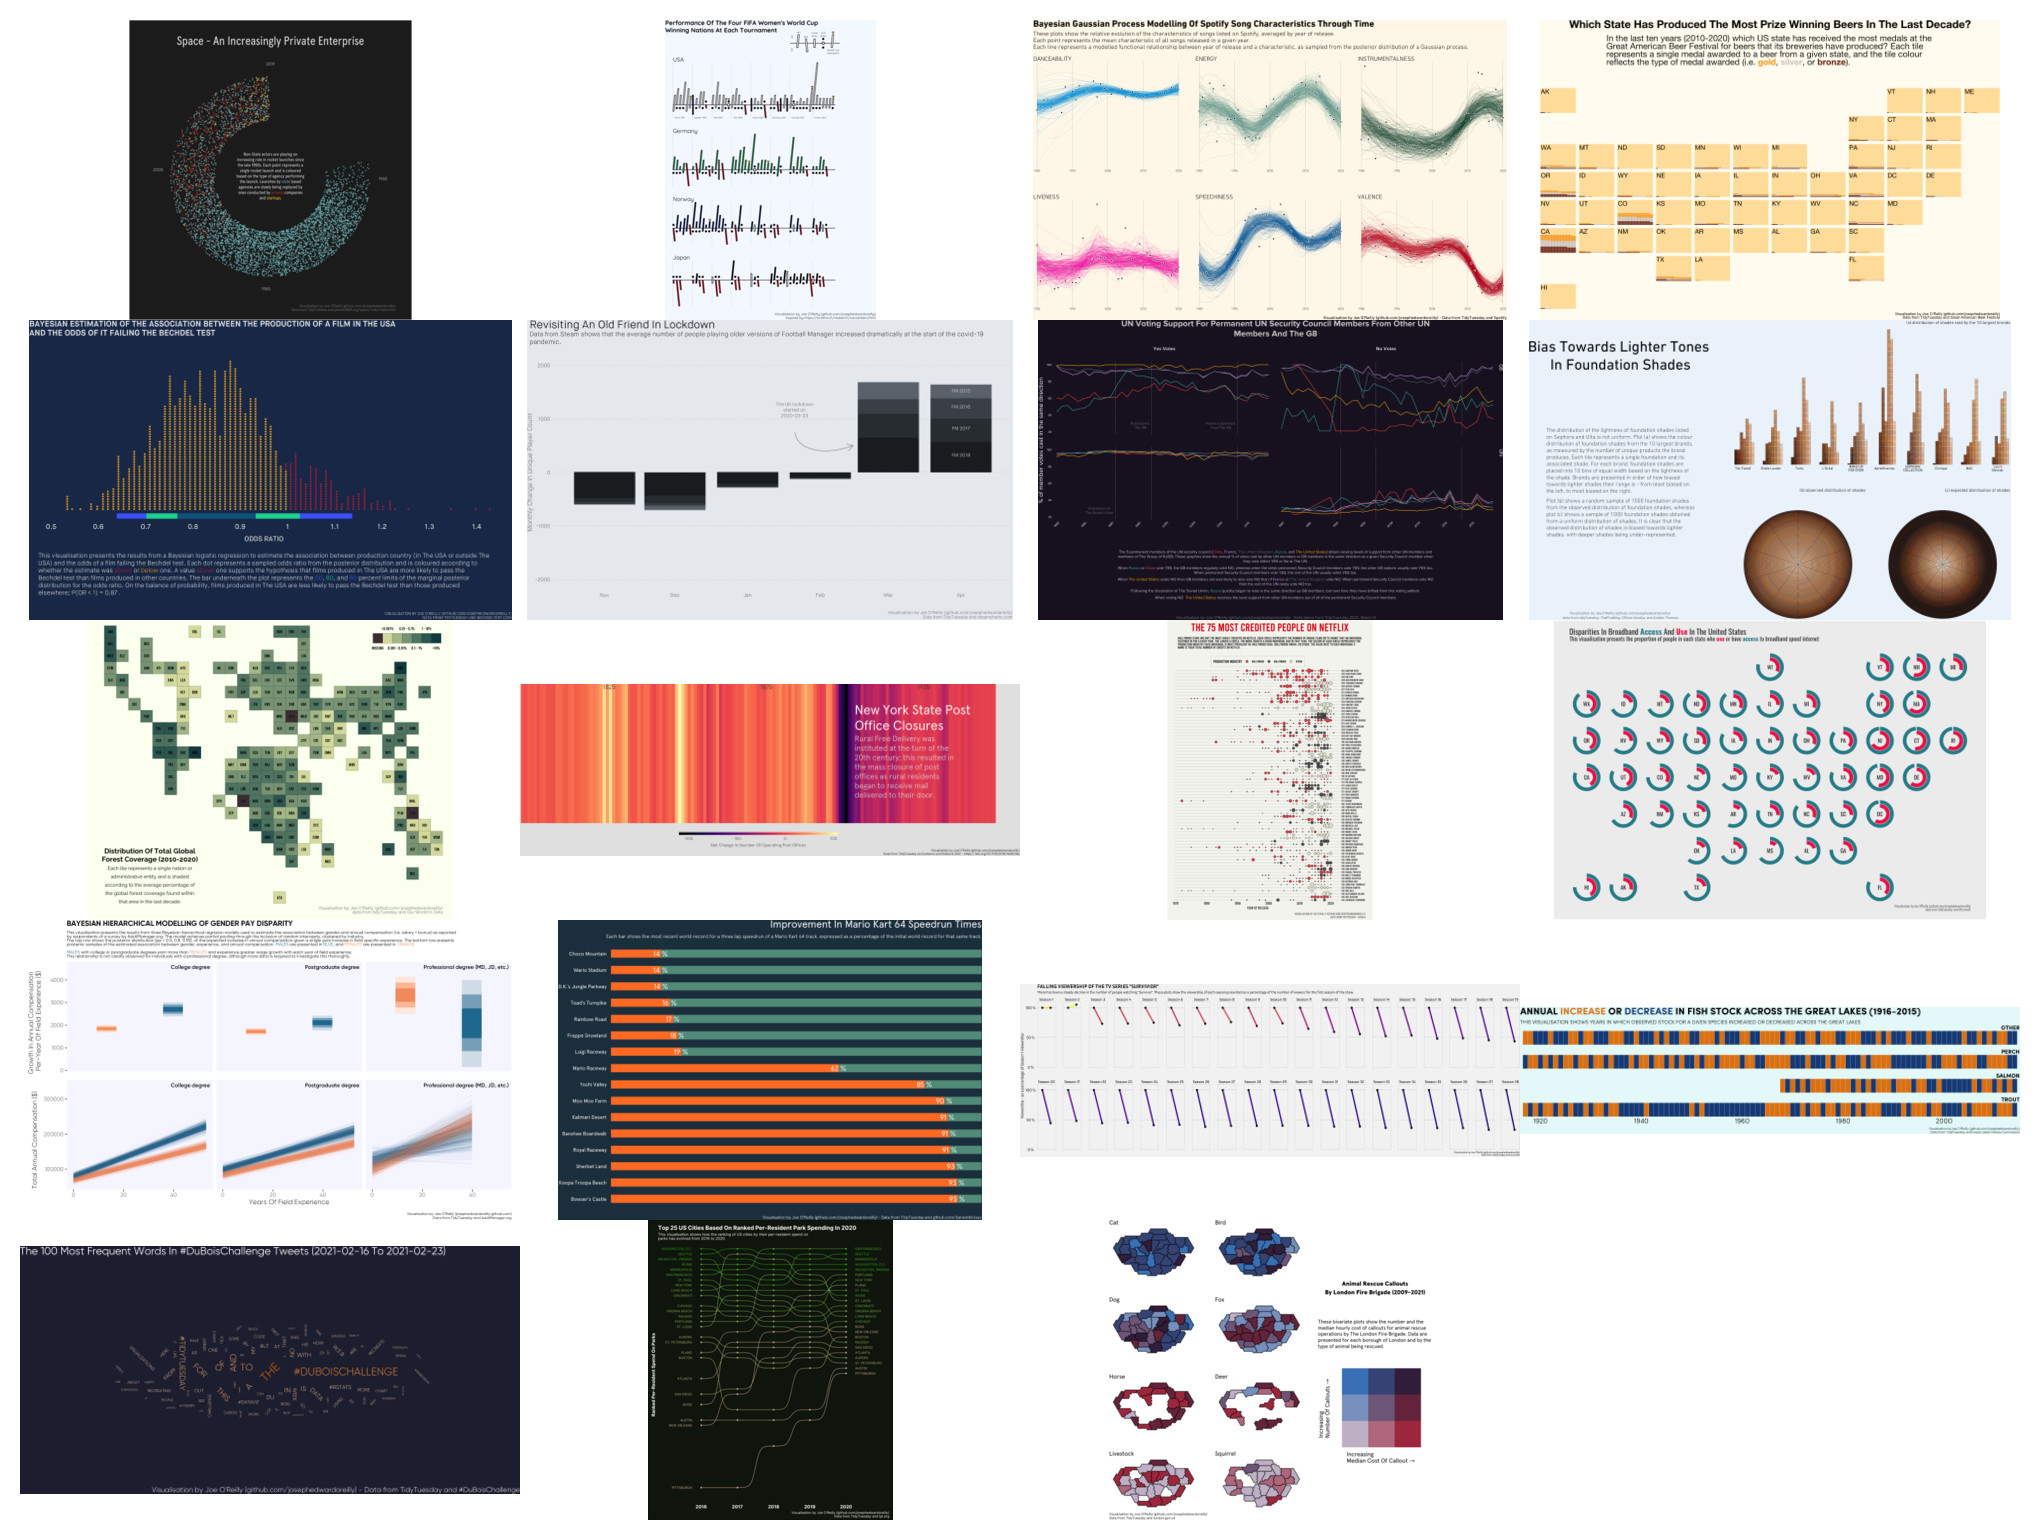
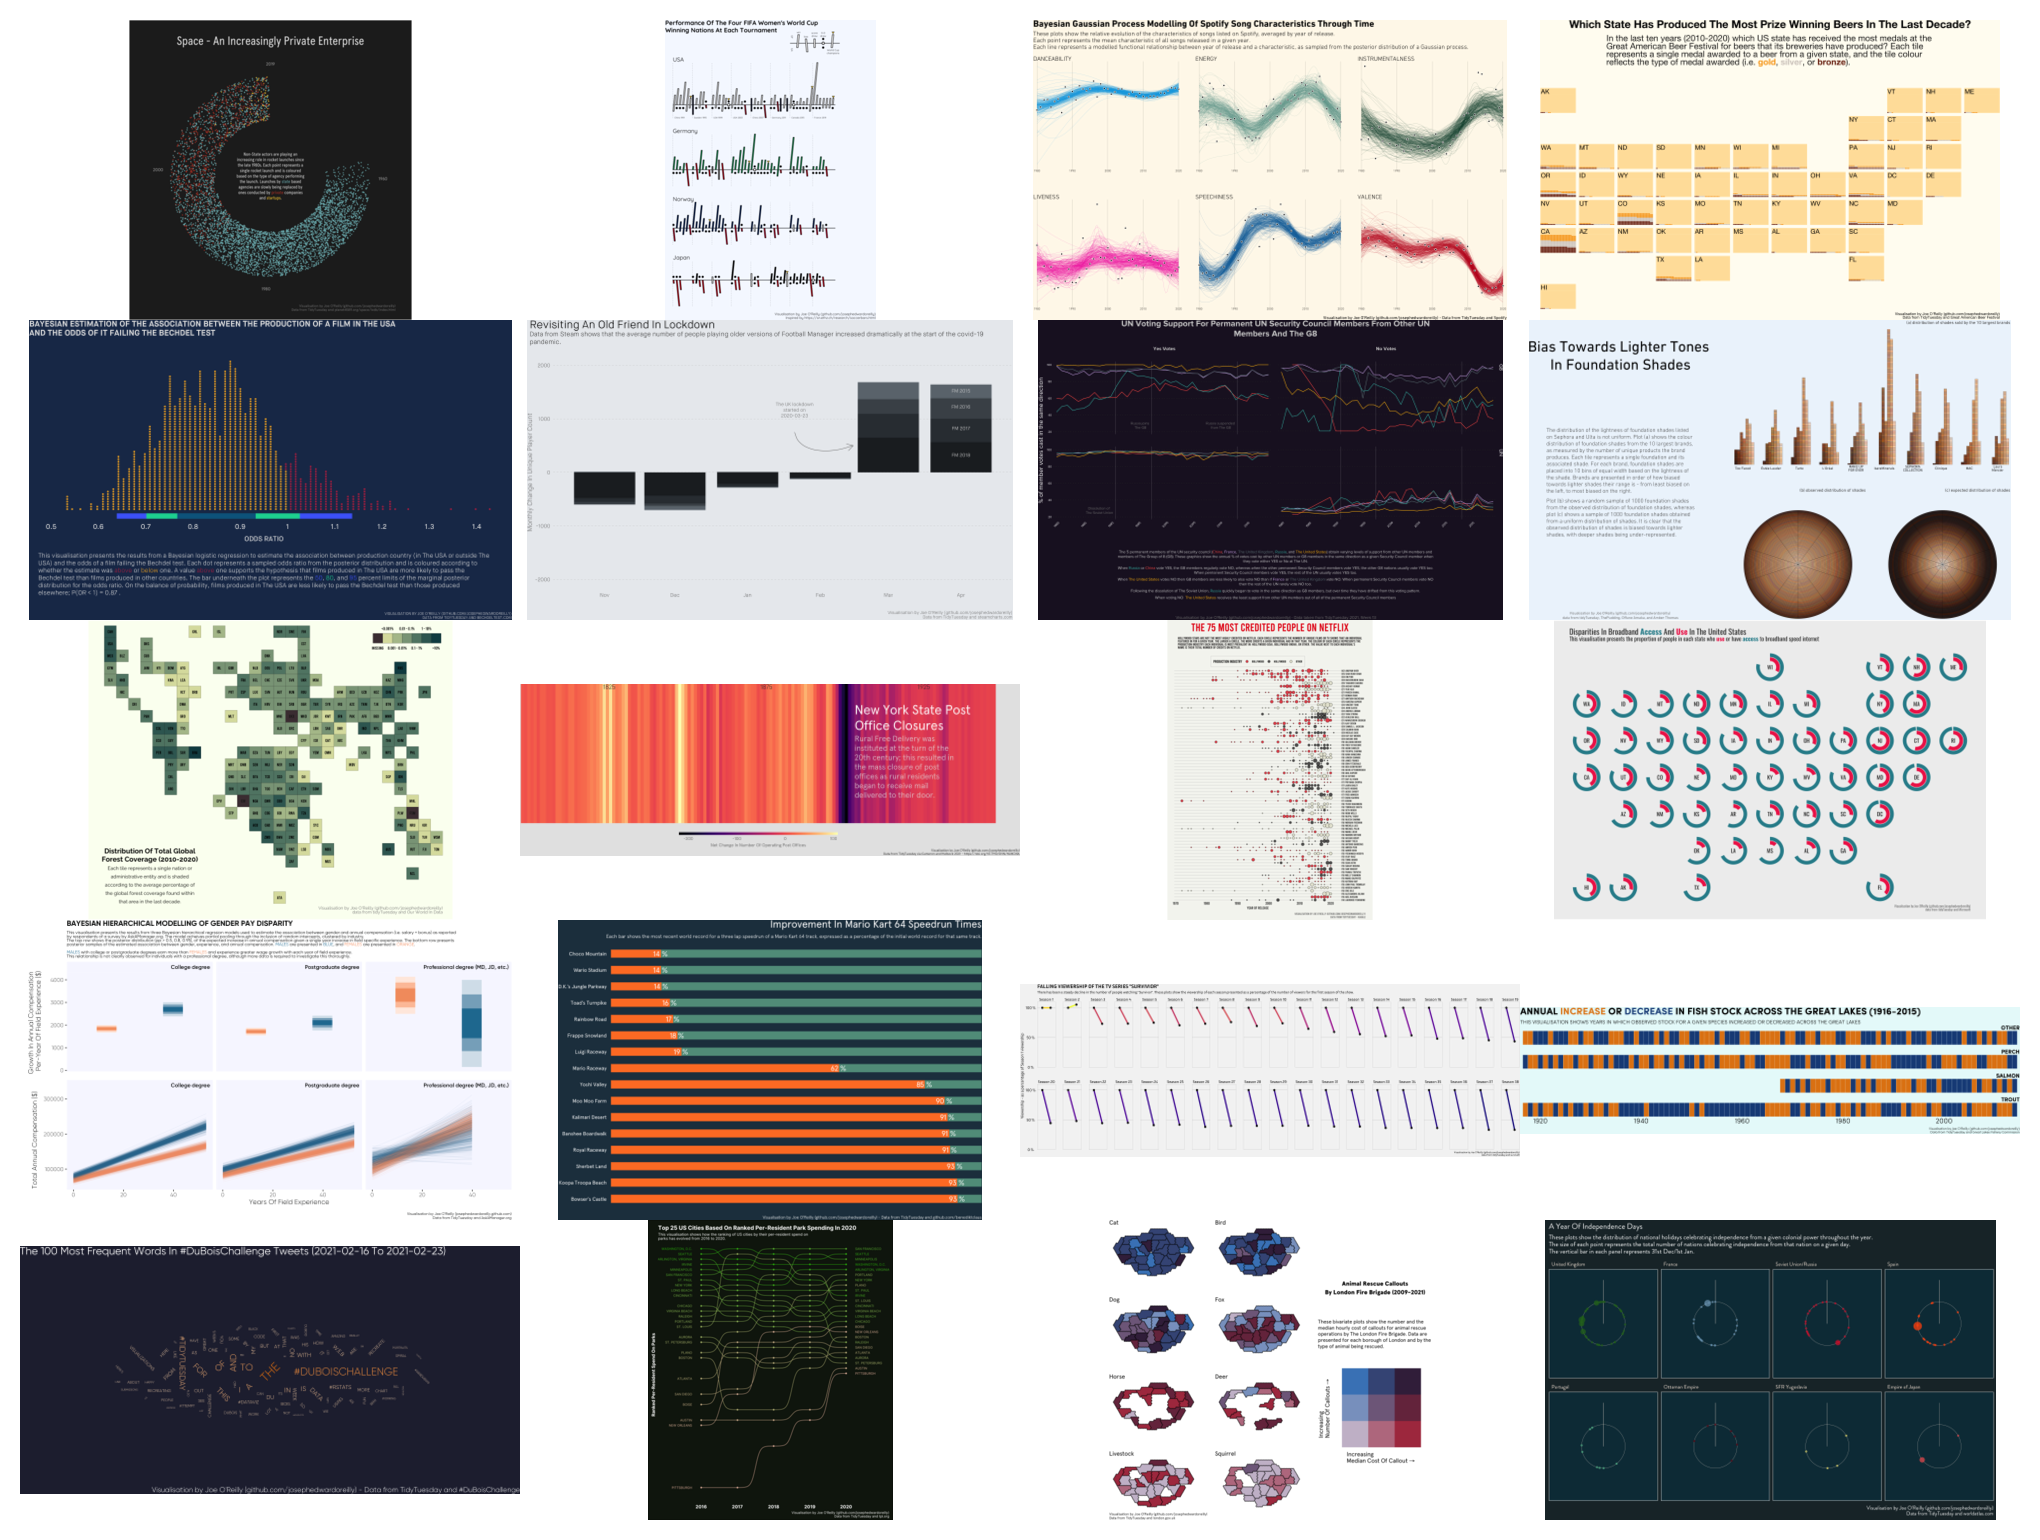
updated collage and readme

Changed region(s): [[0.7412, 0.7792, 0.9882, 0.9974]]

diff --git a/README.md b/README.md
@@ -9,6 +9,11 @@ Some TidyTuesday plots I have created. All are made in R with ggplot2 and relate
 
 ***
 
+### [2021-07-06](https://github.com/josephedwardoreilly/TidyTuesday/blob/master/src/tt_Independence.R)  Independence Days
+![./plots/2021-07-06.png](https://raw.githubusercontent.com/josephedwardoreilly/TidyTuesday/master/plots/2021-07-06.png)
+
+***
+
 ### [2021-06-29](https://github.com/josephedwardoreilly/TidyTuesday/blob/master/src/tt_Animals.R)  Animal Rescues
 ![./plots/2021-06-29.png](https://raw.githubusercontent.com/josephedwardoreilly/TidyTuesday/master/plots/2021-06-29.png)
 
